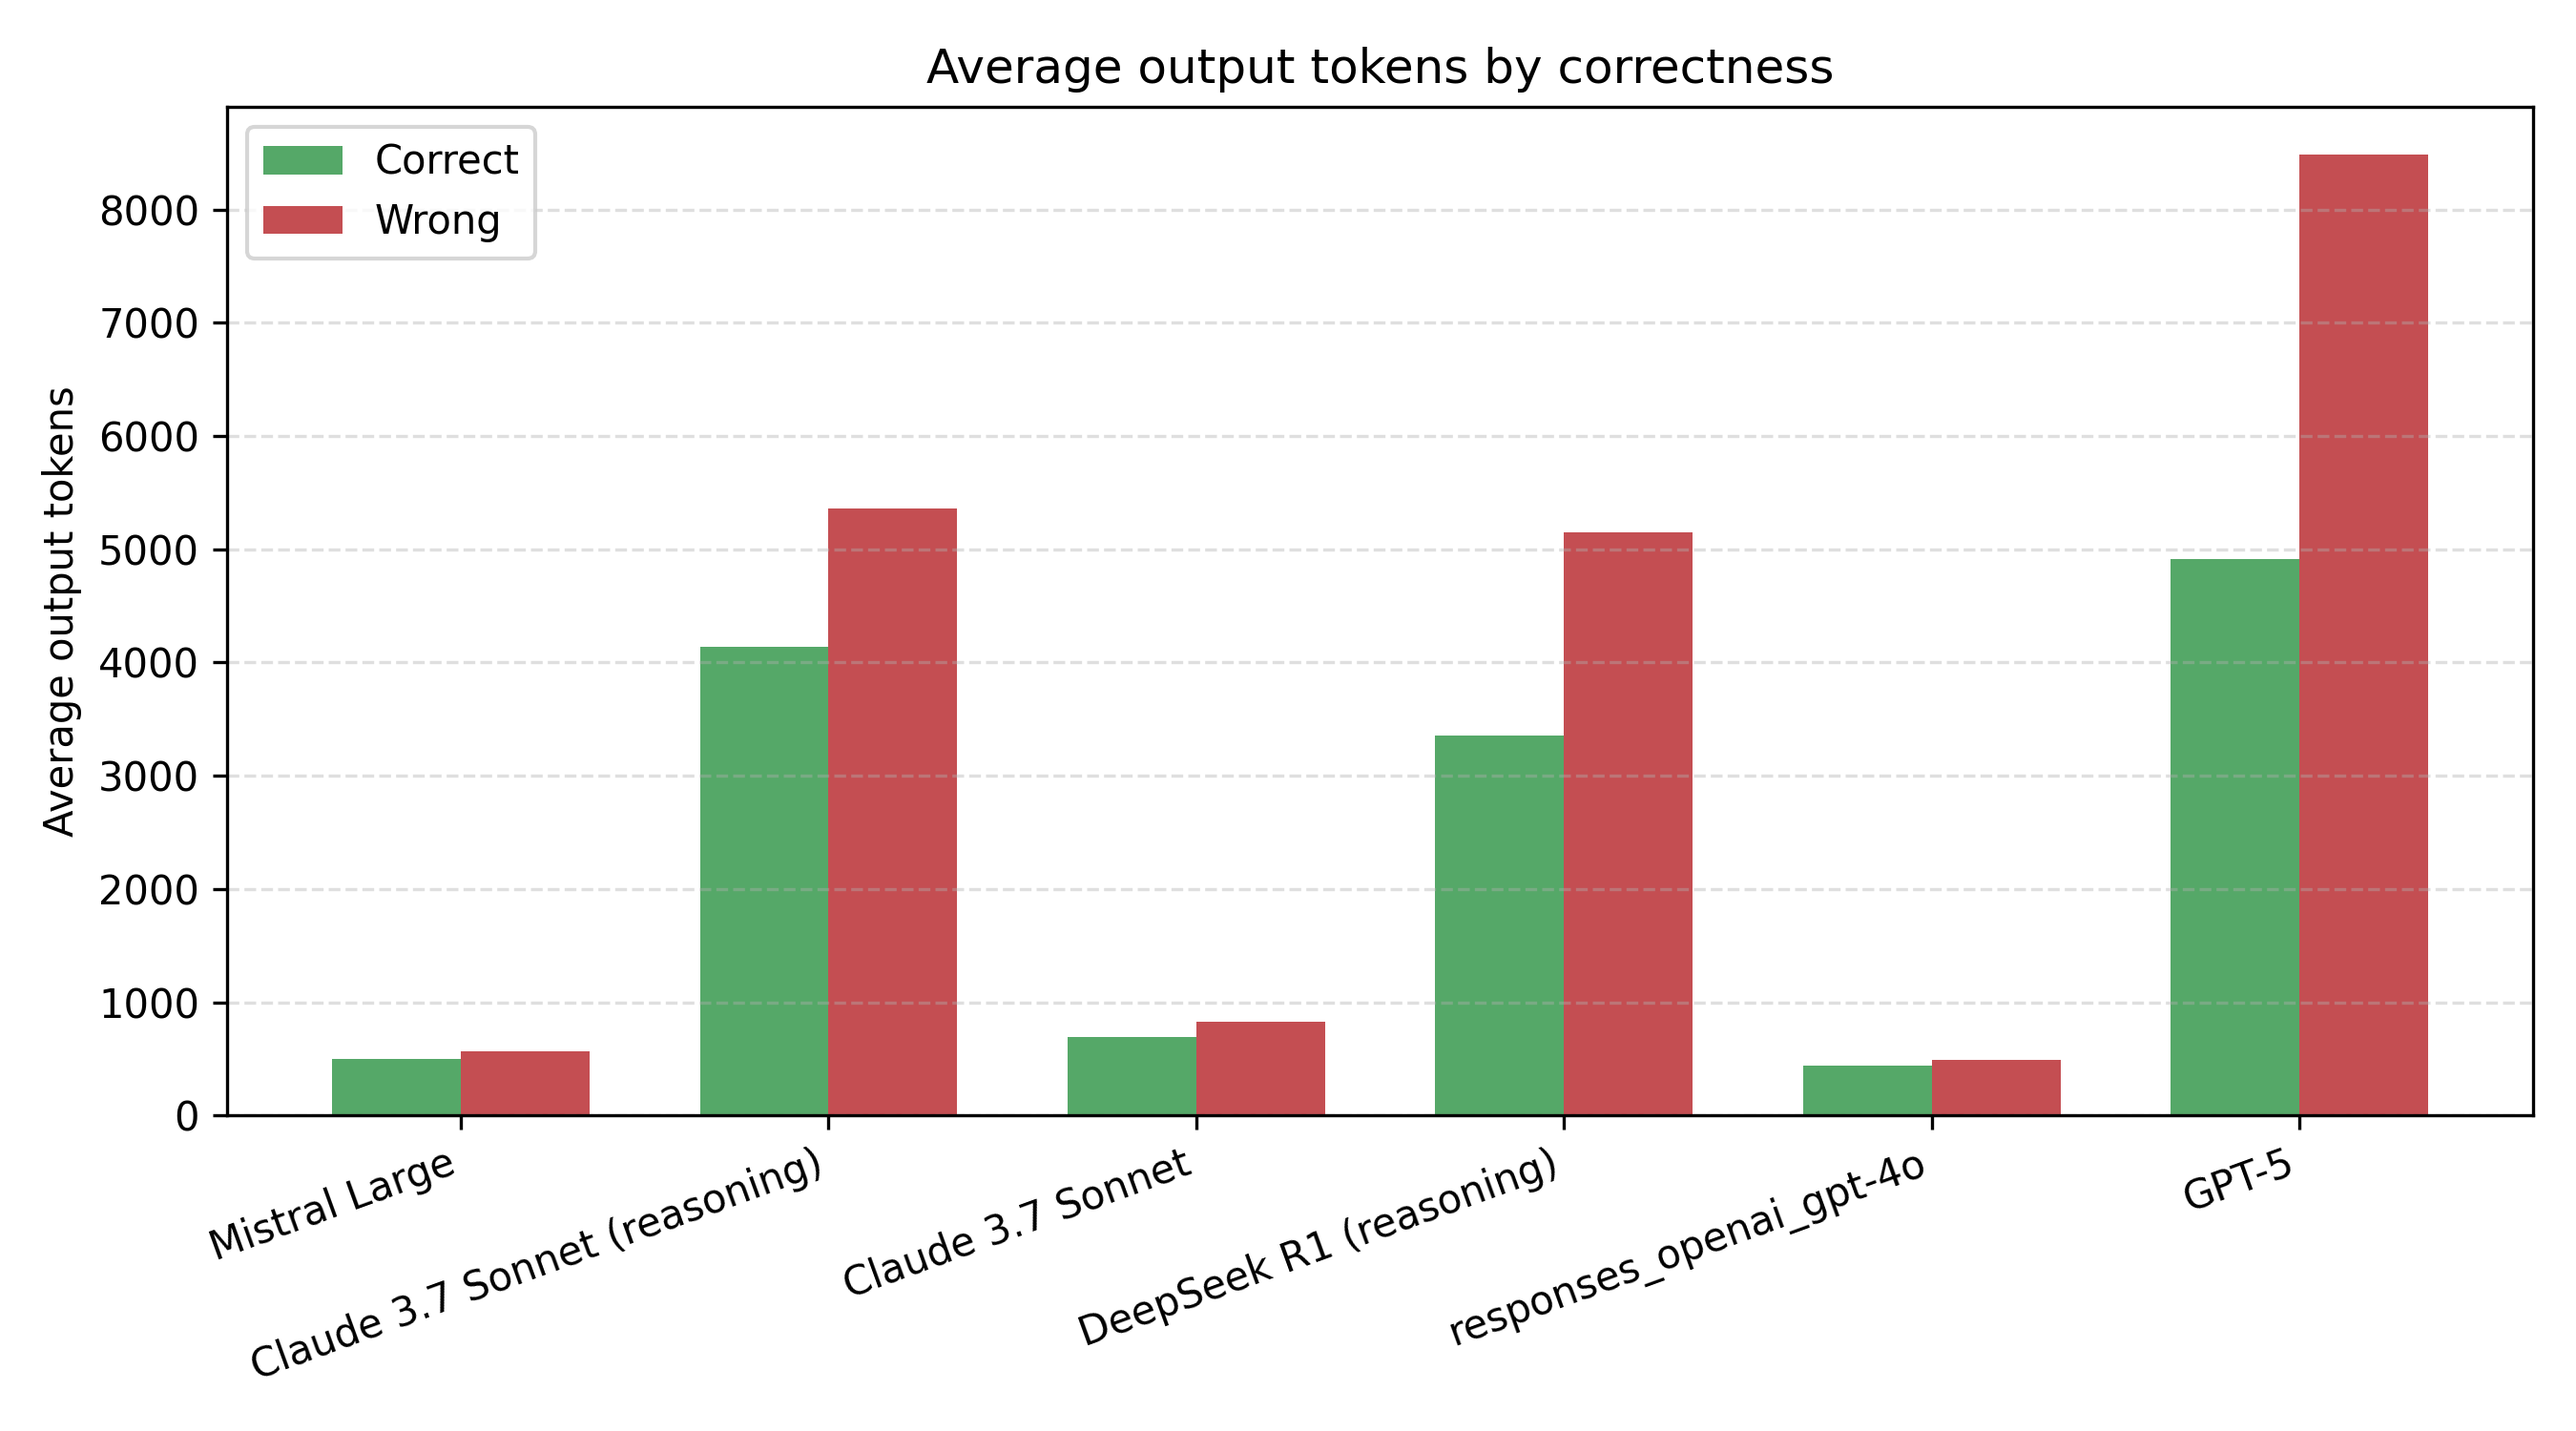
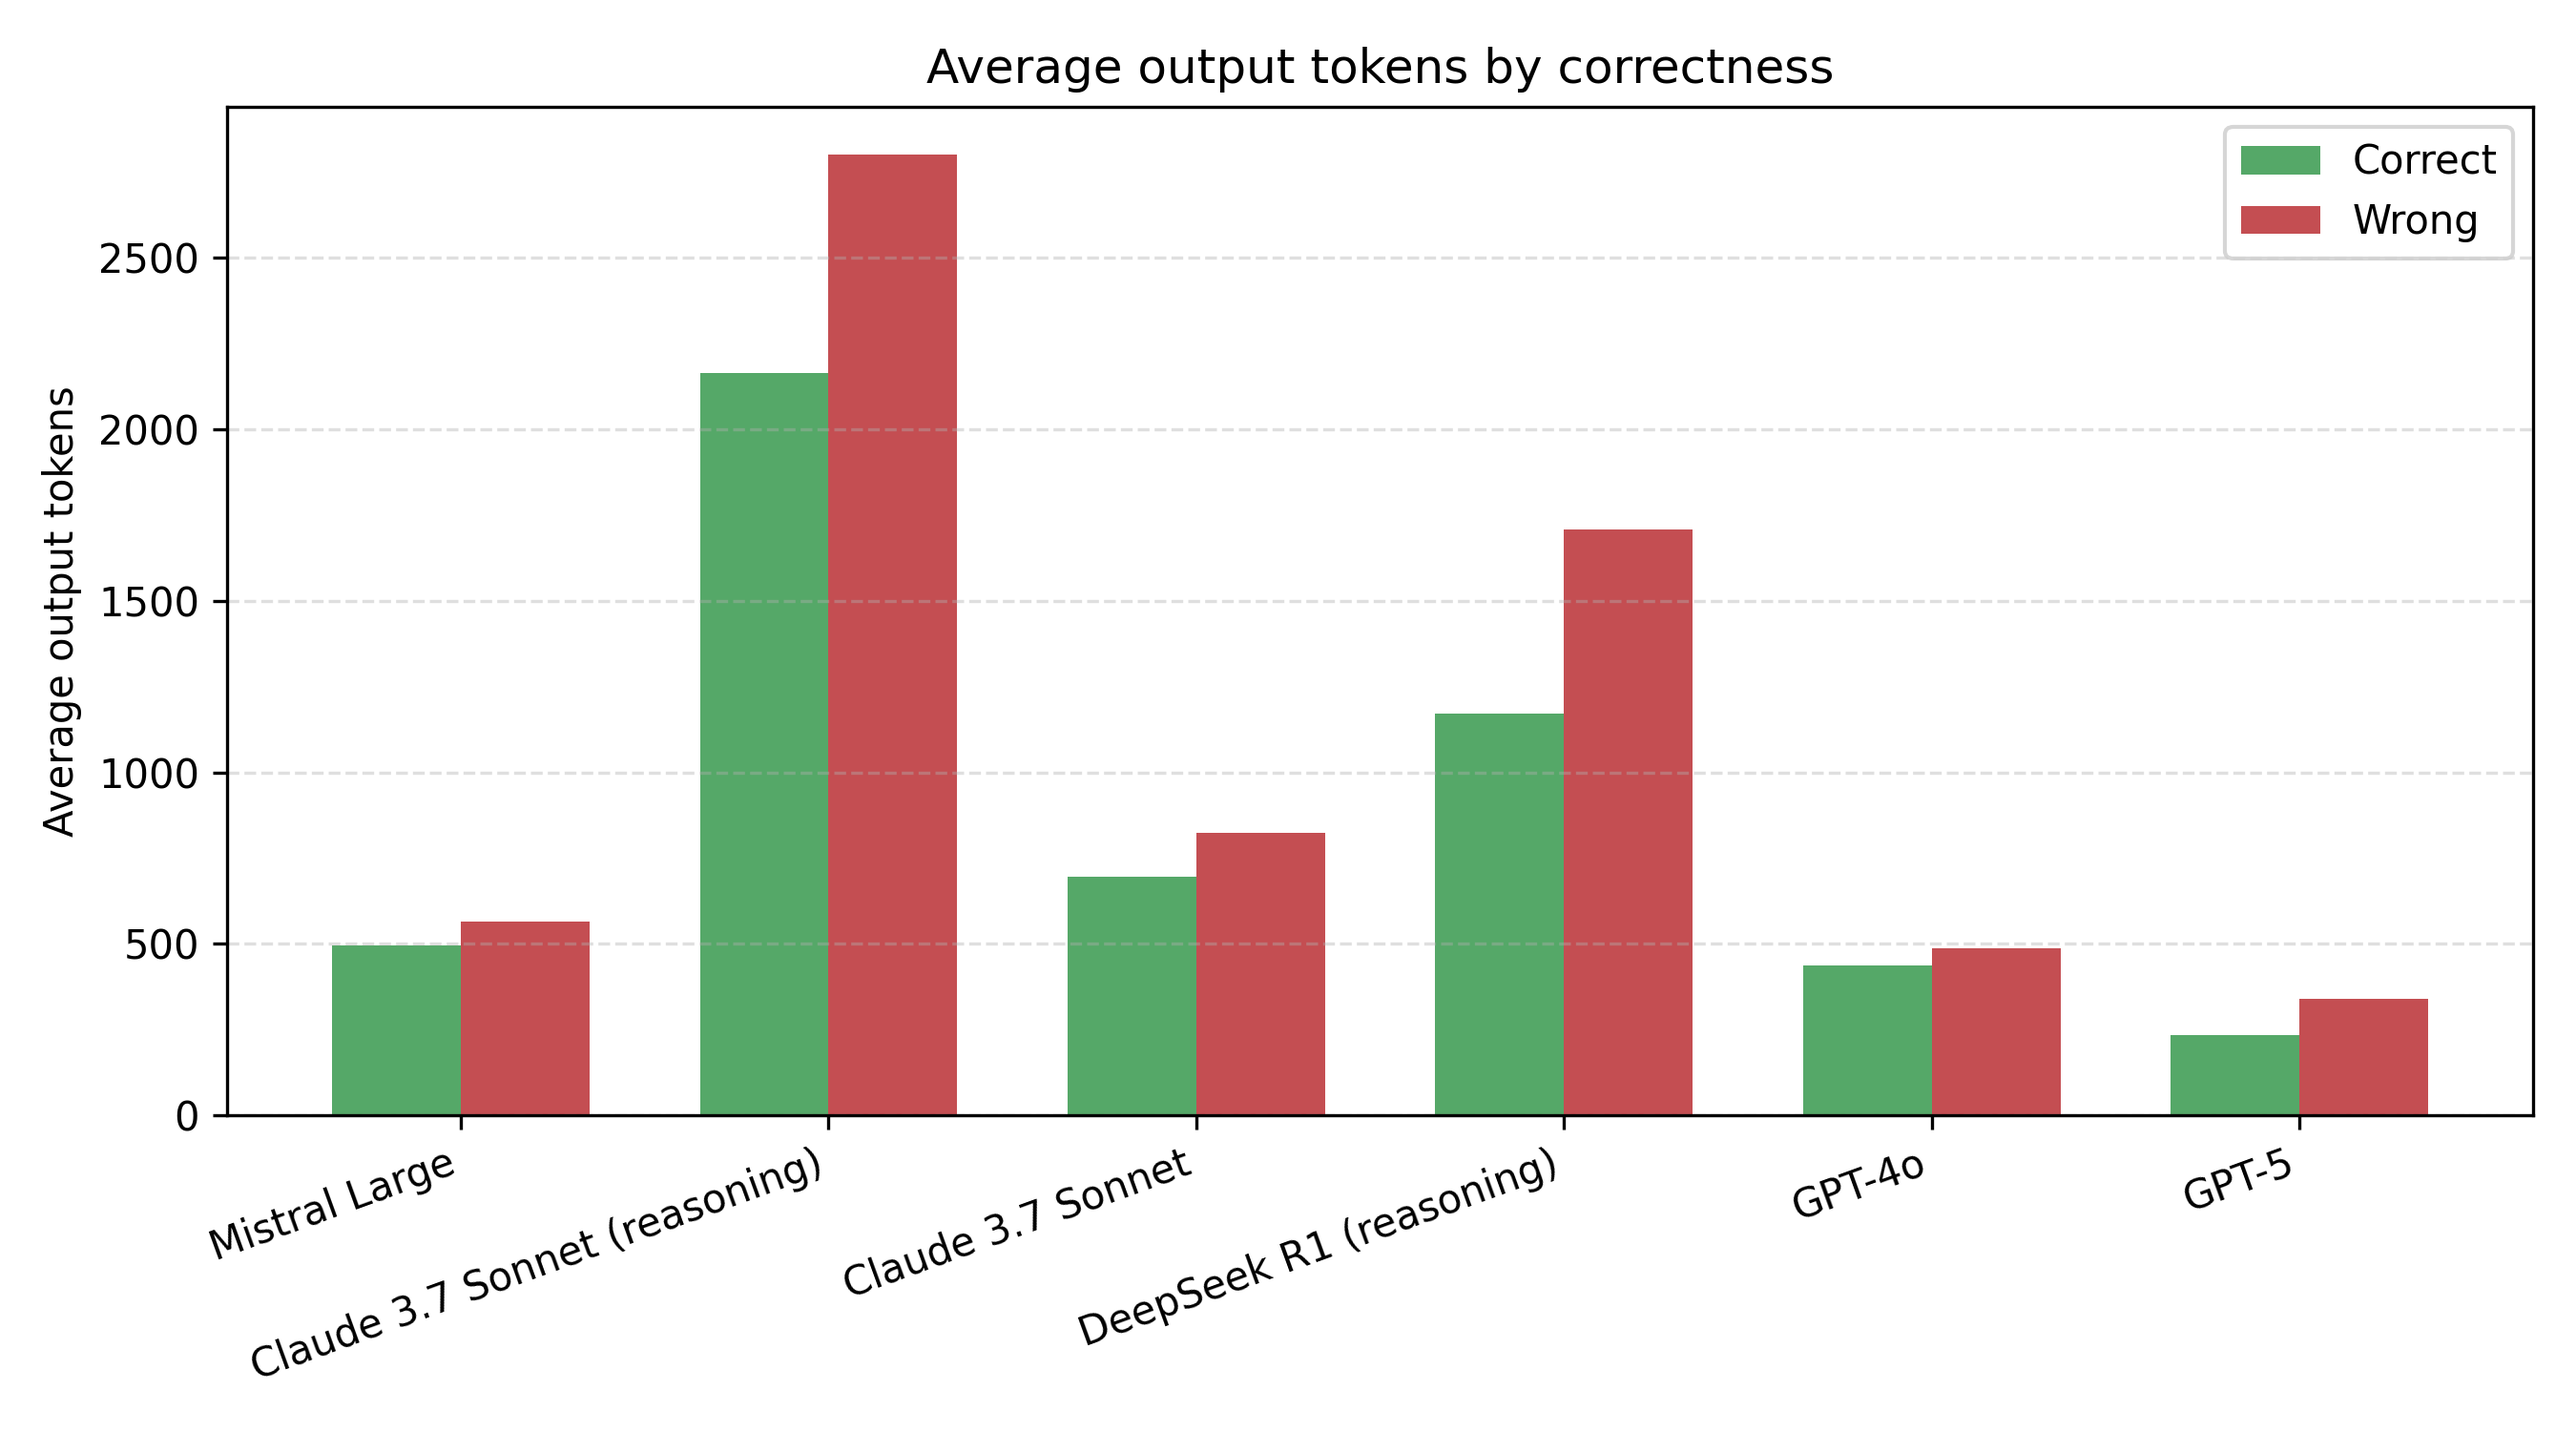
New results added

diff --git a/src/analyzing/average_output_tokens.py b/src/analyzing/average_output_tokens.py
@@ -33,7 +33,7 @@ def normalize_model_key(stem: str) -> str:
     return stem
 
 
-def accumulate_output_stats(path: Path) -> Dict[bool, Tuple[float, int]]:
+def accumulate_output_stats(path: Path, adjust_reasoning: bool) -> Dict[bool, Tuple[float, int]]:
     """Return total output tokens and counts keyed by correctness."""
     totals: Dict[bool, Tuple[float, int]] = defaultdict(lambda: (0.0, 0))
     with path.open("r", encoding="utf-8") as handle:
@@ -54,6 +54,15 @@ def accumulate_output_stats(path: Path) -> Dict[bool, Tuple[float, int]]:
             except (TypeError, ValueError):
                 print(f"Skipping {path.name}:{line_number} (invalid output_tokens: {raw_value!r})")
                 continue
+
+            if adjust_reasoning:
+                raw_reasoning = record.get("reasoning_tokens")
+                try:
+                    reasoning_tokens = float(raw_reasoning)
+                except (TypeError, ValueError):
+                    reasoning_tokens = None
+                if reasoning_tokens is not None:
+                    output_tokens = max(0.0, output_tokens - reasoning_tokens)
 
             total, count = totals[is_correct]
             totals[is_correct] = (total + output_tokens, count + 1)
@@ -87,7 +96,7 @@ def main() -> None:
         model_key = normalize_model_key(path.stem)
         display_name = resolve_label(model_key)
 
-        stats = accumulate_output_stats(path)
+        stats = accumulate_output_stats(path, adjust_reasoning=model_key in REASONING_MODEL_KEYS)
         correct_total, correct_count = stats.get(True, (0.0, 0))
         wrong_total, wrong_count = stats.get(False, (0.0, 0))
 
@@ -102,6 +111,13 @@ def main() -> None:
 
     reasoning_entries = [entry for entry in model_entries if entry[0] in REASONING_MODEL_KEYS]
     non_reasoning_entries = [entry for entry in model_entries if entry[0] not in REASONING_MODEL_KEYS]
+
+    if model_entries:
+        plot_average_tokens(
+            model_entries,
+            plots_dir / "average_output_tokens.png",
+            "Average output tokens by correctness",
+        )
 
     if reasoning_entries:
         plot_average_tokens(
